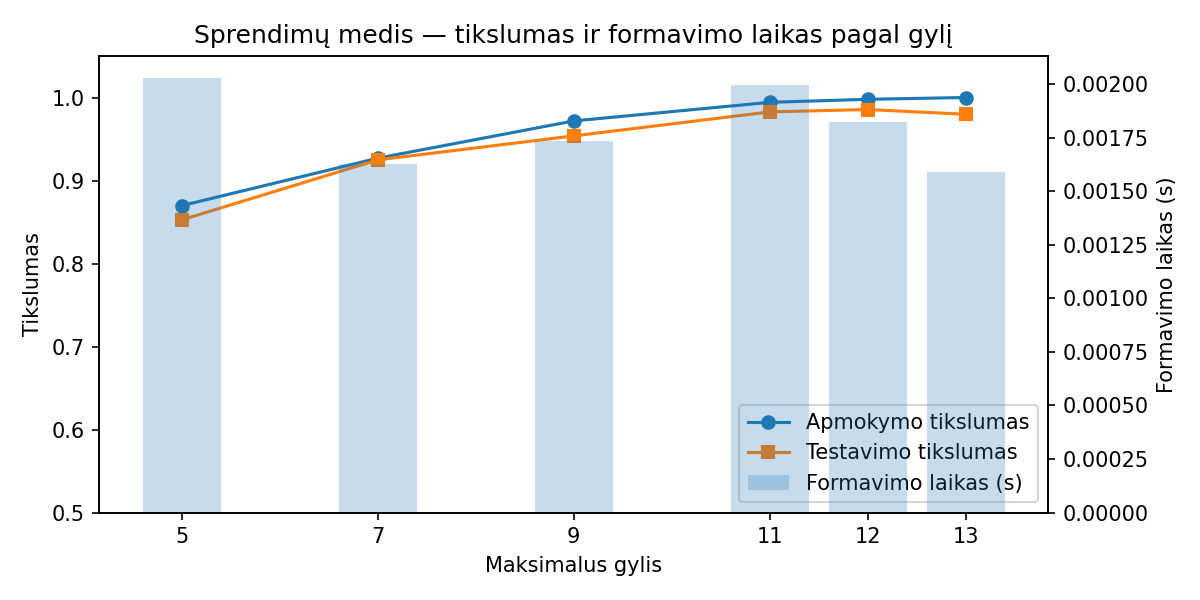
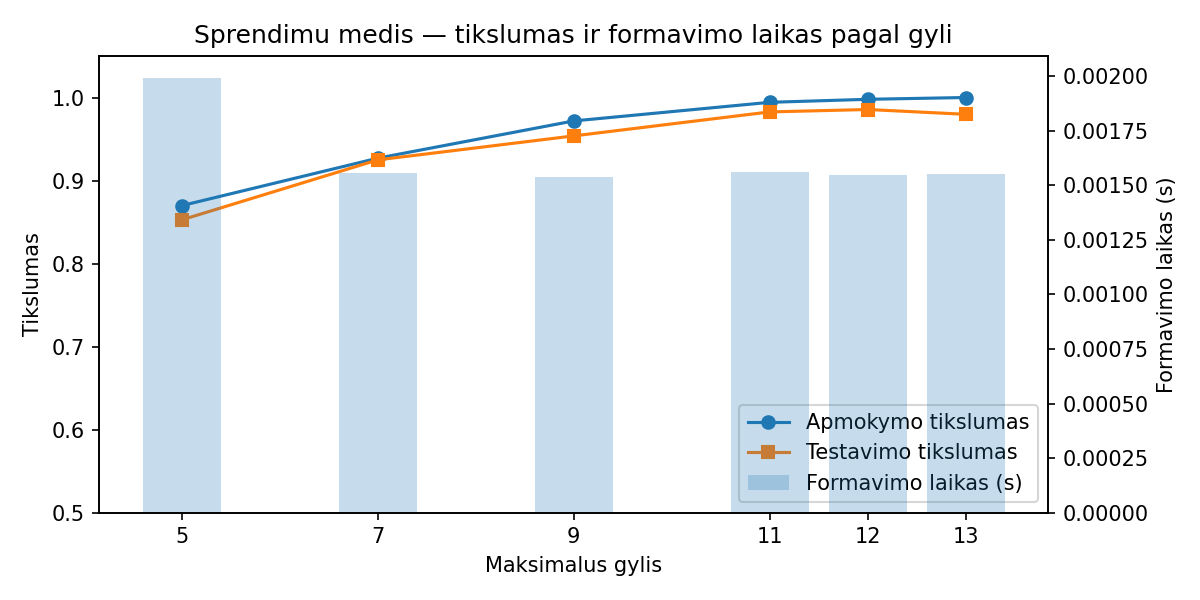
Added remaining 9-10 sections, saved confussion and forrest graphs

diff --git a/Lab2/main.py b/Lab2/main.py
@@ -11,7 +11,7 @@ from sklearn.tree import DecisionTreeClassifier, plot_tree
 from sklearn.metrics import classification_report, confusion_matrix, ConfusionMatrixDisplay, accuracy_score
 
 # -----------------------------------------
-# 1. DUOMENŲ RINKINYS
+# 1. DUOMENU RINKINYS
 # -----------------------------------------
 
 # Dataset: https://archive.ics.uci.edu/dataset/19/car+evaluation
@@ -45,13 +45,13 @@ df = pd.read_csv('car.data', header=None, names=[
     'buying', 'maint', 'doors', 'persons', 'lug_boot', 'safety', 'class'
 ])
 
-print('Duomenų pirmos eilutės:\n')
+print('Duomenu pirmos eilutes:\n')
 print(df.head())
 
-print('\nKlasių pasiskirstymas:\n')
+print('\nKlasiu pasiskirstymas:\n')
 print(df['class'].value_counts())
 
-print('\nTrūkstamos reikšmės:\n')
+print('\nTrukstamos reiksmes:\n')
 print(df.isnull().sum())
 
 # -----------------------------------------
@@ -70,24 +70,24 @@ X_train, X_test, y_train, y_test = train_test_split(
     X, y, test_size=0.2, random_state=42, stratify=y
 )
 
-print('\nApmokymo aibės klasių pasiskirstymas:\n')
+print('\nApmokymo aibes klasiu pasiskirstymas:\n')
 print(y_train.value_counts())
 
-print('\nTestavimo aibės klasių pasiskirstymas:\n')
+print('\nTestavimo aibes klasiu pasiskirstymas:\n')
 print(y_test.value_counts())
 
 # -----------------------------------------
-# 4. ĮVESTYS IR IŠVESTYS
+# 4. IVESTYS IR ISVESTYS
 # -----------------------------------------
 
-print('\nX_train pirmos eilutės:\n')
+print('\nX_train pirmos eilutes:\n')
 print(X_train.head())
 
-print('\ny_train pirmos reikšmės:\n')
+print('\ny_train pirmos reiksmes:\n')
 print(y_train.head())
 
 # -----------------------------------------
-# KATEGORINIŲ REIKŠMIŲ KODAVIMAS
+# KATEGORINIU REIKSMIU KODAVIMAS
 # -----------------------------------------
 
 enc = OrdinalEncoder()
@@ -97,7 +97,7 @@ X_test_enc = enc.transform(X_test)
 classes = sorted(y.unique())
 
 # -----------------------------------------
-# 5. SPRENDIMŲ MEDŽIO SUDARYMAS
+# 5. SPRENDIMU MEDZIO SUDARYMAS
 # -----------------------------------------
 
 model = DecisionTreeClassifier(
@@ -107,10 +107,10 @@ model = DecisionTreeClassifier(
 )
 
 start = time.perf_counter()
-model.fit(X_train_enc, y_train)
+model.fit(X_train_enc, y_train)             # Modelio treniravimas, sudaromas medis
 build_time = time.perf_counter() - start
 
-print(f'\nMedžio sudarymo laikas: {build_time:.6f} s')
+print(f'\nMedzio sudarymo laikas: {build_time:.6f} s')
 
 # -----------------------------------------
 # 6. GRAFINIS ATVAIZDAVIMAS
@@ -151,6 +151,7 @@ disp = ConfusionMatrixDisplay(confusion_matrix=cm, display_labels=classes)
 disp.plot(cmap='Greens')
 plt.title('Testavimo susimaišymo matrica')
 plt.tight_layout()
+plt.savefig('car_tree_confusion_matrix.png', dpi=150)
 plt.show()
 
 # -----------------------------------------
@@ -165,7 +166,7 @@ plt.show()
     Didesnis gylis nei 12 sukelia overfitting'a, kai gylis yra 13, treniravimo tikslumas yra 1.0, bet testavimo tikslumas krenta iki 0.9798.
 '''
 
-depths = [5, 7, 9, 11, 12, 13]
+depths = [5, 7, 9, 11, 12, 13]  # Ataskaitai reikia 5-6 gyliu
 depth_results = []
 
 for d in depths:
@@ -186,18 +187,19 @@ for d in depths:
     test_acc_d = accuracy_score(y_test, y_test_pred_d)
 
     depth_results.append({
-        'depth': d,
-        'build_time': elapsed,
-        'train_acc': train_acc_d,
-        'test_acc': test_acc_d
+        'depth': d,                 # Gylis
+        'build_time': elapsed,      # Sudarymo laikas
+        'train_acc': train_acc_d,   # Apmokymo tikslumas
+        'test_acc': test_acc_d      # Testavimo tikslumas
     })
 
     print(f'gylis={d}  laikas={elapsed:.6f}s  apmokymas={train_acc_d:.4f}  testavimas={test_acc_d:.4f}')
 
 depth_df = pd.DataFrame(depth_results)
 
+# depth_df.loc paima reiksme is depth_df, kurioje test_acc yra didziausias ir dar gyli
 best_depth = int(depth_df.loc[depth_df['test_acc'].idxmax(), 'depth'])
-print(f'\nGeriausias gylis pagal testavimo tikslumą: {best_depth}')
+print(f'\nGeriausias gylis pagal testavimo tiksluma: {best_depth}')
 
 fig, ax1 = plt.subplots(figsize=(8, 4))
 ax2 = ax1.twinx()
@@ -216,18 +218,18 @@ lines1, labels1 = ax1.get_legend_handles_labels()
 lines2, labels2 = ax2.get_legend_handles_labels()
 ax1.legend(lines1 + lines2, labels1 + labels2, loc='lower right')
 
-plt.title('Sprendimų medis — tikslumas ir formavimo laikas pagal gylį')
+plt.title('Sprendimu medis — tikslumas ir formavimo laikas pagal gyli')
 plt.tight_layout()
 plt.savefig('depth_experiment.png', dpi=150)
 plt.show()
 
 # -----------------------------------------
-# 9. ATSITIKTINIS MIŠKAS (5 MEDŽIAI)
+# 9. ATSITIKTINIS MISKAS (5 MEDZIAI)
 # -----------------------------------------
 
 forest = RandomForestClassifier(
-    n_estimators=5,       # 5 medžiai
-    max_depth=best_depth, # tavo rastas geriausias gylis (12)
+    n_estimators=5,
+    max_depth=best_depth,
     random_state=42
 )
 
@@ -236,19 +238,71 @@ forest.fit(X_train_enc, y_train)
 forest_time = time.perf_counter() - start
 
 y_pred_forest = forest.predict(X_test_enc)
-
 forest_acc = accuracy_score(y_test, y_pred_forest)
 
-print('\n--- ATSITIKTINIS MIŠKAS ---')
-print(f'Miško sudarymo laikas: {forest_time:.6f} s')
-print(f'Miško tikslumas: {forest_acc:.4f}')
-
+print('\n--- ATSITIKTINIS MISKAS (5 medžiai) ---')
+print(f'Misko sudarymo laikas: {forest_time:.6f} s')
+print(f'Misko tikslumas: {forest_acc:.4f}')
 print('\nClassification report:\n')
 print(classification_report(y_test, y_pred_forest, zero_division=0))
 
 cm_forest = confusion_matrix(y_test, y_pred_forest, labels=classes)
 disp = ConfusionMatrixDisplay(confusion_matrix=cm_forest, display_labels=classes)
 disp.plot(cmap='Blues')
-plt.title('Random Forest susimaišymo matrica')
+plt.title('Random Forest (5 medziai) susimaisymo matrica')
 plt.tight_layout()
+plt.savefig('forest_5_confusion_matrix.png', dpi=150)
+plt.show()
+
+# ---------------------------------------------------------
+# 10. GERIAUSIAS ATSITIKTINIS MISKAS (3–9 MEDZIAI)
+# ---------------------------------------------------------
+
+tree_counts = range(3, 10)
+forest_results = []
+
+for t in tree_counts:
+    f = RandomForestClassifier(
+        n_estimators=t,         # Medziu kiekis
+        max_depth=best_depth,   # Optimalus gylis is ano eksperimento, buvo 12
+        random_state=42
+    )
+    start = time.perf_counter()
+    f.fit(X_train_enc, y_train)
+    elapsed = time.perf_counter() - start
+
+    y_pred_f = f.predict(X_test_enc)
+    acc_f = accuracy_score(y_test, y_pred_f)
+
+    forest_results.append({
+        'n_trees': t,
+        'build_time': elapsed,
+        'accuracy': acc_f,
+        'error': 1 - acc_f
+    })
+    print(f'Medžiai={t}  laikas={elapsed:.6f}s  tikslumas={acc_f:.4f}')
+
+forest_df = pd.DataFrame(forest_results)
+best_n = int(forest_df.loc[forest_df['accuracy'].idxmax(), 'n_trees'])
+print(f'\nGeriausias medziu kiekis: {best_n}')
+
+fig, ax1 = plt.subplots(figsize=(8, 4))
+ax2 = ax1.twinx()
+
+ax1.plot(forest_df['n_trees'], forest_df['accuracy'], 'o-', label='Tikslumas')
+ax1.plot(forest_df['n_trees'], forest_df['error'], 's--', label='Paklaida')
+ax2.bar(forest_df['n_trees'], forest_df['build_time'], alpha=0.25, label='Formavimo laikas (s)')
+
+ax1.set_xlabel('Medziu kiekis')
+ax1.set_ylabel('Tikslumas / Paklaida')
+ax2.set_ylabel('Formavimo laikas (s)')
+ax1.set_xticks(list(tree_counts))
+
+lines1, labels1 = ax1.get_legend_handles_labels()
+lines2, labels2 = ax2.get_legend_handles_labels()
+ax1.legend(lines1 + lines2, labels1 + labels2, loc='lower right')
+
+plt.title('Atsitiktinis miskas — tikslumas pagal medžiu kieki')
+plt.tight_layout()
+plt.savefig('forest_experiment.png', dpi=150)
 plt.show()
